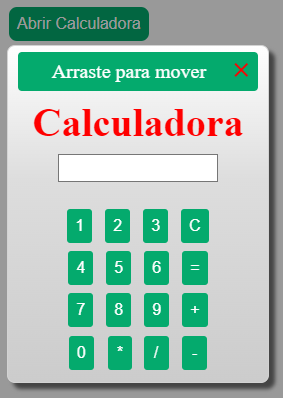
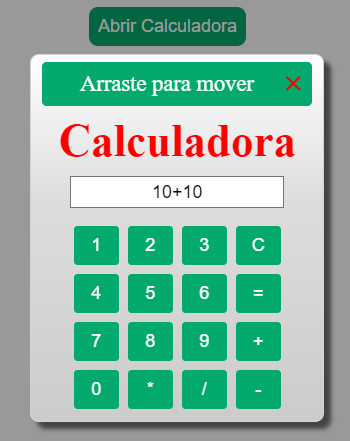
Refactorings
- Refactored calculation mode
- Refactored style of buttons
- Change preview image

diff --git a/index.html b/index.html
@@ -12,50 +12,63 @@
 
 
 <body>
-
-    <button type="button" id="open-modal1-button" class="sticky">Abrir Calculadora</button>
+    <div class="botaoOpen"><button type="button" id="open-modal1-button" class="sticky">Abrir Calculadora</button></div>
+    
 
     <div id="my-modal1" class="modal1">
         <div class="modal1-content">
             <p>
                 <!--Conteúdo da calculadora -->
-            <div id="mydiv" class="boxshadow">
-                <!-- Div com o cabeçalho para ser arrastada -->
-                <span class="close-button">&times;</span>
-                <div id="mydivheader">Arraste para mover</div>
-                <!-- Título da calculadora -->
-                <h1>Calculadora</h1>
-                <!-- Campo de entrada para exibir o resultado -->
-                <input type="text" id="result" class="display">
-                <br><br>
-                <!-- Botões da calculadora -->
-                <input type="button" value="1" class='number' onclick="document.getElementById('result').value+='1'">
-                <input type="button" value="2" class='number' onclick="document.getElementById('result').value+='2'">
-                <input type="button" value="3" class='number' onclick="document.getElementById('result').value+='3'">
-                <input type="button" value="C" class='number' onclick="document.getElementById('result').value=''">
-                <br>
-                <input type="button" value="4" class='number' onclick="document.getElementById('result').value+='4'">
-                <input type="button" value="5" class='number' onclick="document.getElementById('result').value+='5'">
-                <input type="button" value="6" class='number' onclick="document.getElementById('result').value+='6'">
-                <input type="button" value="=" class='number' onclick="document.getElementById('result').value=eval(document.getElementById('result').value)">
-                <br>
-                <input type="button" value="7" class='number' onclick="document.getElementById('result').value+='7'">
-                <input type="button" value="8" class='number' onclick="document.getElementById('result').value+='8'">
-                <input type="button" value="9" class='number' onclick="document.getElementById('result').value+='9'">
-                <input type="button" value="+" class='number' onclick="document.getElementById('result').value+='+'">
-                <br>
-                <input type="button" value="0" class='number' onclick="document.getElementById('result').value+='0'" style="margin: 7px">
-                <input type="button" value="*" class='number' onclick="document.getElementById('result').value+='*'" style="margin: 4px; width: 31px">
-                <input type="button" value="/" class='number' onclick="document.getElementById('result').value+='/'" style="margin: 4px; width: 31px">
-                <input type="button" value="-" class='number' onclick="document.getElementById('result').value+='-'" style="margin: 7px; width: 31px">
-                <br>
-            </div>
+                <div id="centralizador">    
+                    <div id="mydiv" class="boxshadow">
+                        <!-- Div com o cabeçalho para ser arrastada -->
+                        <span class="close-button">&times;</span>
+                        <div id="mydivheader">Arraste para mover</div>
+                        <!-- Título da calculadora -->
+                        <h1>Calculadora</h1>
+                        <!-- Campo de entrada para exibir o resultado -->
+                        <input type="text" id="result" class="display">
+                      
+                        <!-- Botões da calculadora -->
+                        <div class="grid">
+                            <input type="button" value="1" class='number' onclick="document.getElementById('result').value+='1'">
+                            <input type="button" value="2" class='number' onclick="document.getElementById('result').value+='2'">
+                            <input type="button" value="3" class='number' onclick="document.getElementById('result').value+='3'">
+                            <input type="button" value="C" class='number' onclick="document.getElementById('result').value=''">
+                        </div>
+                 
+                        <div class="grid">
+                            <input type="button" value="4" class='number' onclick="document.getElementById('result').value+='4'">
+                            <input type="button" value="5" class='number' onclick="document.getElementById('result').value+='5'">
+                            <input type="button" value="6" class='number' onclick="document.getElementById('result').value+='6'">
+                            <input type="button" value="=" class='number' onclick="calcular()"> 
+                        </div>
+                        
+                        
+                        <div class="grid">
+                            <input type="button" value="7" class='number' onclick="document.getElementById('result').value+='7'">
+                            <input type="button" value="8" class='number' onclick="document.getElementById('result').value+='8'">
+                            <input type="button" value="9" class='number' onclick="document.getElementById('result').value+='9'">
+                            <input type="button" value="+" class='number' onclick="document.getElementById('result').value+='+'">
+                        </div>
+                      
+                       <div class="grid">
+                            <input type="button" value="0" class='number' onclick="document.getElementById('result').value+='0'">
+                            <input type="button" value="*" class='number' onclick="document.getElementById('result').value+='*'">
+                            <input type="button" value="/" class='number' onclick="document.getElementById('result').value+='/'">
+                            <input type="button" value="-" class='number' onclick="document.getElementById('result').value+='-'">
+                       </div>
+                        
+                    </div>
+                </div>
+       
             </p>
         </div>
     </div>
     </div>
-
-    <script src="./scripts/mainScript.js"></script>
+    
+    <script src="./scripts/calcular.js"></script>
+    <script src="./scripts/manipulaçãoDoModal.js"></script>
 </body>
 
 </html>

diff --git a/scripts/manipulaçãoDoModal.js b/scripts/manipulaçãoDoModal.js
@@ -1,0 +1,81 @@
+// Get Elements of DOM
+const openModalbutton = document.getElementById('open-modal1-button');
+const modal1 = document.getElementById('my-modal1');
+const closebutton = document.querySelector('.close-button');
+const modalCentralizador = document.getElementById('centralizador')
+
+ // Bloco que manipula abertura e fechamento do modal
+openModalbutton.addEventListener('click', () => {
+    modal1.style.display = 'block';
+});
+
+closebutton.addEventListener('click', () => {
+    modal1.style.display = 'none';
+});
+
+window.addEventListener('click', (event) => {
+    if (event.target == modal1) {
+        modal1.style.display = 'none';
+    }
+});
+
+window.addEventListener('click', (event) => {
+     // Fecha o modal caso o usuario clique fora dele 
+    if (event.target == modalCentralizador ) {
+        modal1.style.display = 'none';
+    }
+});
+
+
+
+
+ // Função para tornar o elemento DIV arrastável:
+dragElement(document.getElementById("mydiv"));
+
+function dragElement(elemento_1) {
+     // Variáveis para armazenar a posição do mouse
+    let pos1 = 0, pos2 = 0, pos3 = 0, pos4 = 0;
+
+  
+     // usa o cabeçalho como referência para o arraste
+    document.getElementById(elemento_1.id + "header").onmousedown = dragMouseDown;
+
+
+     // Função chamada quando o usuário clica e segura o cabeçalho ou a área dentro do DIV
+    function dragMouseDown(elemento_2) {
+         // Pega o evento de clique ou o evento padrão da janela
+        elemento_2 = elemento_2 || window.event;
+         // Previne o comportamento padrão do clique
+        elemento_2.preventDefault();
+         // Pega a posição inicial do cursor do mouse
+        pos3 = elemento_2.clientX;
+        pos4 = elemento_2.clientY;
+         // Define a função para ser chamada quando o botão do mouse for solto
+        document.onmouseup = closeDragElement;
+         // Define a função para ser chamada sempre que o cursor do mouse se mover
+        document.onmousemove = elementDrag;
+    }
+
+     // Função chamada sempre que o cursor do mouse se mover enquanto o botão estiver pressionado
+    function elementDrag(elemento_2) {
+         // Pega o evento de movimento ou o evento padrão da janela
+        elemento_2 = elemento_2 || window.event;
+         // Previne o comportamento padrão do movimento
+        elemento_2.preventDefault();
+         // Calcula a nova posição do cursor do mouse
+        pos1 = pos3 - elemento_2.clientX;
+        pos2 = pos4 - elemento_2.clientY;
+        pos3 = elemento_2.clientX;
+        pos4 = elemento_2.clientY;
+         // Define a nova posição do elemento
+        elemento_1.style.top = (elemento_1.offsetTop - pos2) + "px";
+        elemento_1.style.left = (elemento_1.offsetLeft - pos1) + "px";
+    }
+
+     // Função chamada quando o botão do mouse é solto
+    function closeDragElement() {
+         // Interrompe o arrastar do DIV quando o botão do mouse é solto
+        document.onmouseup = null;
+        document.onmousemove = null;
+    }
+}

diff --git a/scripts/calcular.js b/scripts/calcular.js
@@ -1,0 +1,45 @@
+function calcular() {
+    const DISPLAY = document.getElementById("result").value;
+    const RESULTADO = efetuarCalculo(DISPLAY);
+    document.getElementById("result").value = RESULTADO;
+}
+
+function validarSegurança(expressão) {
+     // Verificar se a expressão contém caracteres invalidos por REGEX
+    if (/[^0-9+\-*/.()^()\s]/.test(expressão)) {
+        return false;
+    }
+
+     // Verificar se a expressão contém sequências maliciosas
+    const SEQUENCIA_MALICIOSA = ["Math", "console", "window", "document", "eval"];
+    for (const I of SEQUENCIA_MALICIOSA) {
+        if (expressão.includes(I)) {
+            return false;
+        }
+    }
+
+    return true;
+}
+
+function efetuarCalculo(expressão) {
+     // Remover espaços em branco 
+    expressão = expressão.replace(/\s+/g, "");
+
+     // Verificação de segurança
+    if (!validarSegurança(expressão)) {
+        return "Expressão inválida!";
+    }
+
+     // Verificar se usuario tentou dividir por 0
+    if (expressão.includes("/0")) {
+        return "Não existe divisão por 0";
+    }
+
+     // Executar o calculo
+    try {
+        const RESULTADO = Function(`'use strict'; return (${expressão});`)();
+        return RESULTADO;
+    } catch (error) {
+        return "Expressão inválida!";
+    }
+}

diff --git a/styles/mainStyle.css b/styles/mainStyle.css
@@ -57,6 +57,24 @@ button {
     margin: 5px;
 }
 
+#centralizador {
+    position: fixed;
+    width: 100%;
+    height: 100%;
+    display: flex;
+    justify-content: center;
+    align-items: center;
+}
+
+.botaoOpen {
+    position: fixed;
+    display: flex;
+    align-items: center;
+    justify-content: center;
+    height: 100%;
+    width: 100%;
+}
+
 input[type=button] {
     size: 30;
     background-color: #04AA6D;
@@ -70,11 +88,7 @@ input[type=button] {
 }
 
 .display {
-    font-size: 25px !important;
-    padding: 1px;
-    text-align: right;
-    width: 65%;
-    height: 30px;
+    width: 75%;
 }
 
 .modal1 {
@@ -114,14 +128,22 @@ button.sticky {
 }
 
 #result {
-    font-size: 25pt;
+    font-size: 20px;
     text-align: center;
+    padding: 5px;
+    margin: 0 0 15px;
 }
 
-#open-modal1-button{
+#open-modal1-button {
     border-radius: 10px;
 }
 
-.number{
+.number {
     border-radius: 4px;
+}
+
+.grid{
+    display: grid;
+    grid-template-columns: 2.4em 2.4em 2.4em 2.4em;
+    justify-content: center;
 }
